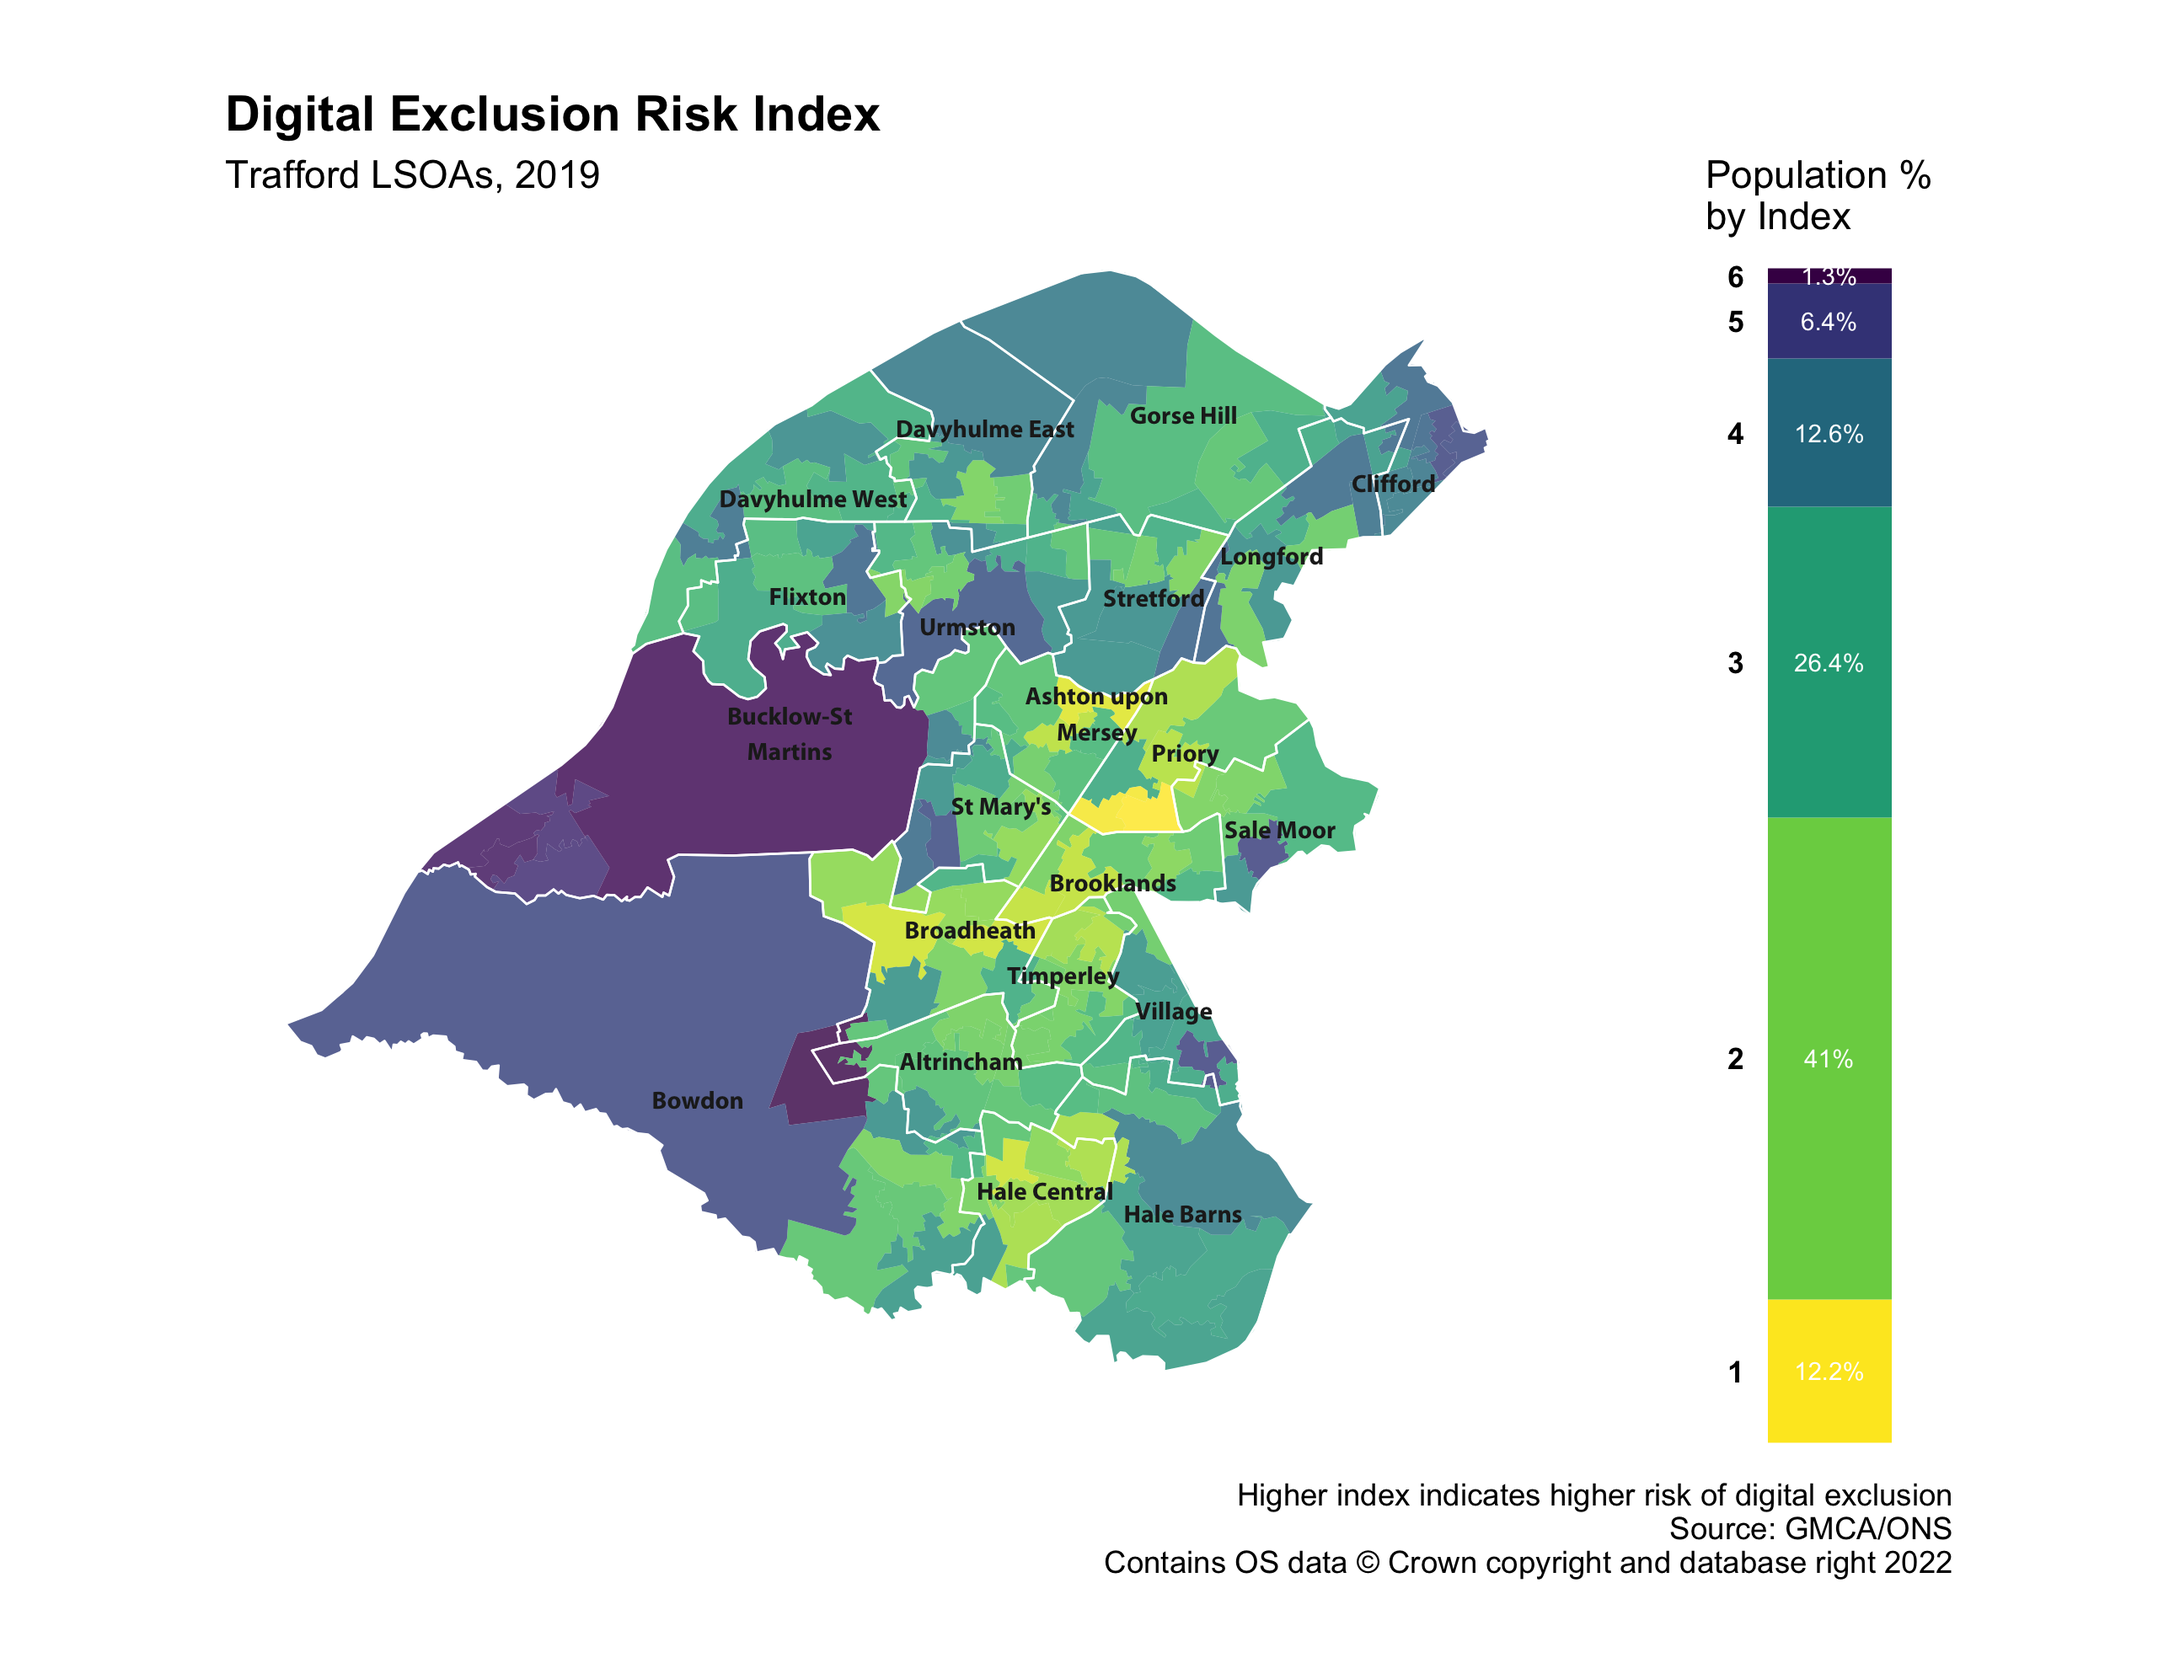
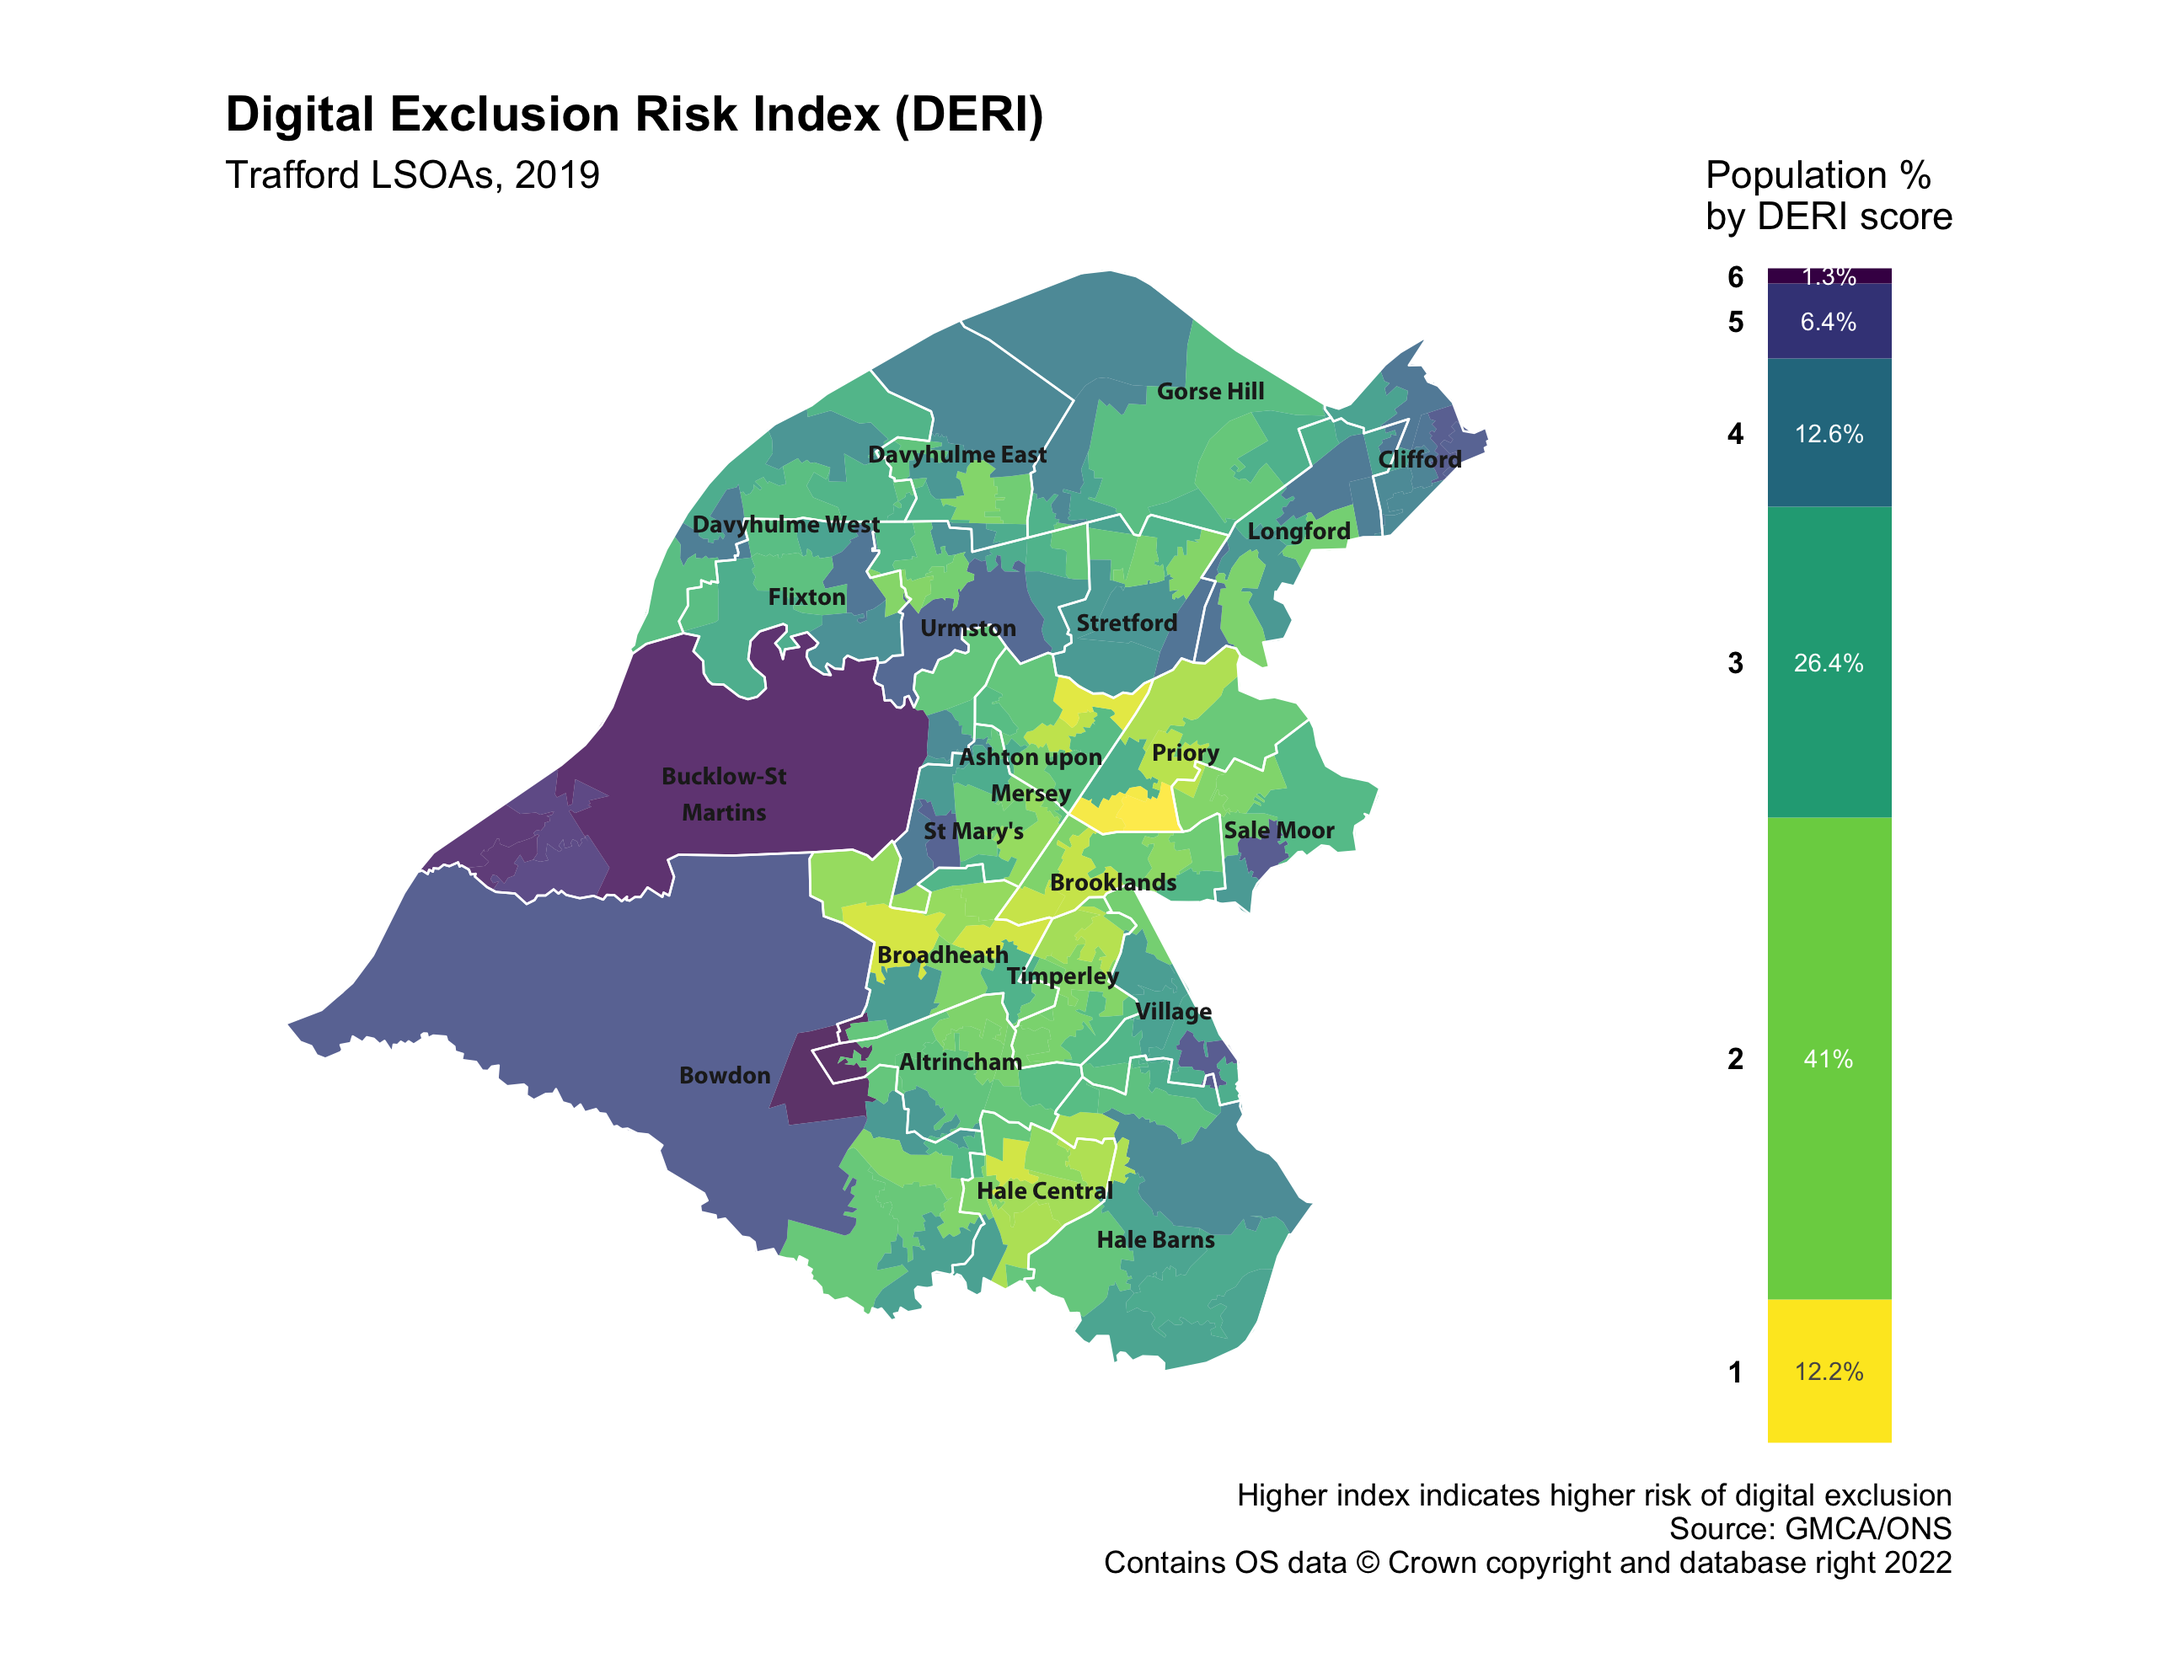
Accessibility modifications.

diff --git a/2022-03-31-digital-exclusion/index.html b/2022-03-31-digital-exclusion/index.html
@@ -4,7 +4,7 @@
         <meta charset="UTF-8"/>
         <meta name="viewport" content="width=device-width, initial-scale=1.0, viewport-fit=cover"/>
         <meta name="keywords" content="digital exclusion, digital, DERI, index, population, trafford, LSOA, visualisation, charticle"/>
-        <meta name="description" content="Population percent at risk of Digital exclusion in Trafford"/>
+        <meta name="description" content="Population percent at risk of Digital exclusion in Trafford based on the LSOAs DERI score"/>
 
         <title>Population percent at risk of Digital exclusion in Trafford</title>
 
@@ -20,15 +20,15 @@
                 <h1>Population at risk of digital exclusion</h1>
                 <time datetime="2022-03-31">March 31, 2022</time>
 
-                <p>Digital exclusion could be a barrier to access services and opportunities that are accessible only or more easily accessible online.</p>
+                <p>Digital exclusion could be a barrier to access services and opportunities that are only accessible, or more easily accessible, online.</p>
 
-<p>The <a href="https://www.gmtableau.nhs.uk/t/GMCA/views/DigitalExclusionRiskIndexv1_5/DERIhomepage" target="_blank">Digital Exclusion Risk Index (DERI)</a>  created by the <a href="https://www.greatermanchester-ca.gov.uk/what-we-do/research/office-of-data-analytics/" target="_blank">GMCA</a> expresses the risk or “likelihood” of  digital exclusion by area (LSOA) compared to other areas (LSOAs), nationally or within a district, using a score.</p>
+<p>The <a href="https://www.gmtableau.nhs.uk/t/GMCA/views/DigitalExclusionRiskIndexv1_5/DERIhomepage" target="_blank">Digital Exclusion Risk Index (DERI)</a>  created by the <a href="https://www.greatermanchester-ca.gov.uk/what-we-do/research/office-of-data-analytics/" target="_blank">GMCA</a> expresses the risk or “likelihood” of  digital exclusion by area (Lower Super Output Area - LSOA) compared to other areas (LSOAs), nationally or within a district, using a score.</p>
 
 <p>The DERI score  is based on the combination of scores of 11 indicators related to 3 topics: Broadband, Demography and Deprivation covering risk factors such as broadband connectivity, older age, disability, deprivation,  poverty, and skills levels that are considered to influence digital exclusion.</p>
 
-<p>At a district level the areas are scored in each of the indicators according to their level among the maximum and minimum values of the areas within the district. Each of the indicator’s scores for the area is then weighted and combined to create the DERI score.</p>
+<p>At a district level the areas are scored in each of the indicators according to their level among the maximum and minimum values of the areas within the district from 1 to 10. Each of the indicator’s scores for the area is then weighted and combined to create the DERI score.</p>
 
-<p>In Trafford there are pockets of higher risk of digital exclusion in Bucklow-St Martins and Bowdon. 7.7 % of the population of Trafford live in an area (LSOA) with a DERI score of 5 or 6 representing a high risk of digital exclusion, whilst 53.2% live in an area with DERI index of 1 or 2 representing a low risk of digital exclusion.</p>
+<p>In Trafford there are pockets of higher risk of digital exclusion in Bucklow-St Martins and Bowdon. 7.7 % of the population of Trafford live in an area (LSOA) with a DERI score of 5 or 6 representing a high risk of digital exclusion, whilst 53.2% live in an area with DERI score of 1 or 2 representing a low risk of digital exclusion.</p>
 
                 <figure>
                     <img src="plot.png" width="600" alt="Map of the Digital Exclusion Risk Index for Trafford's areas and a column showing the population % by index"/>
